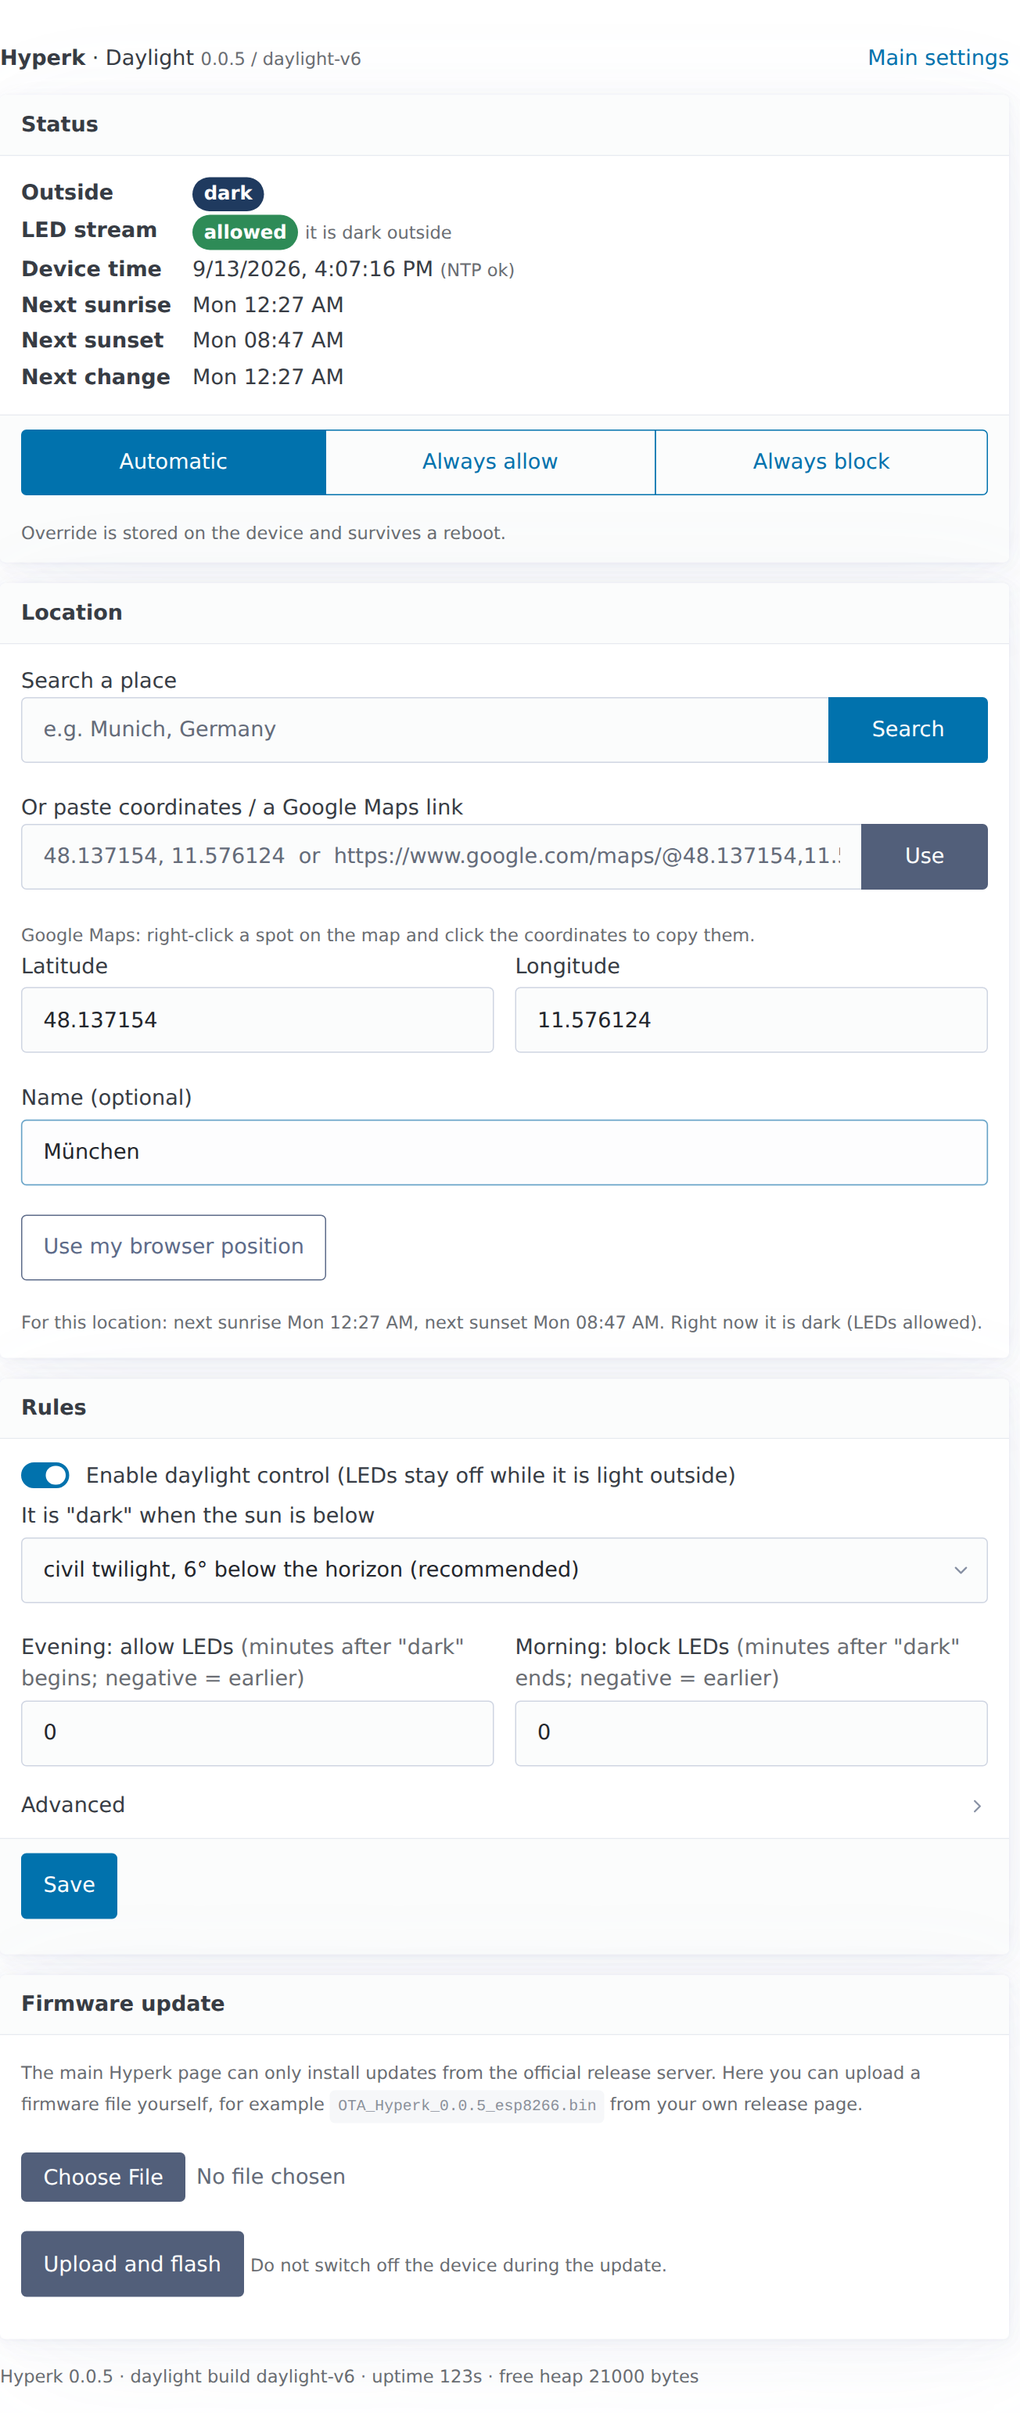
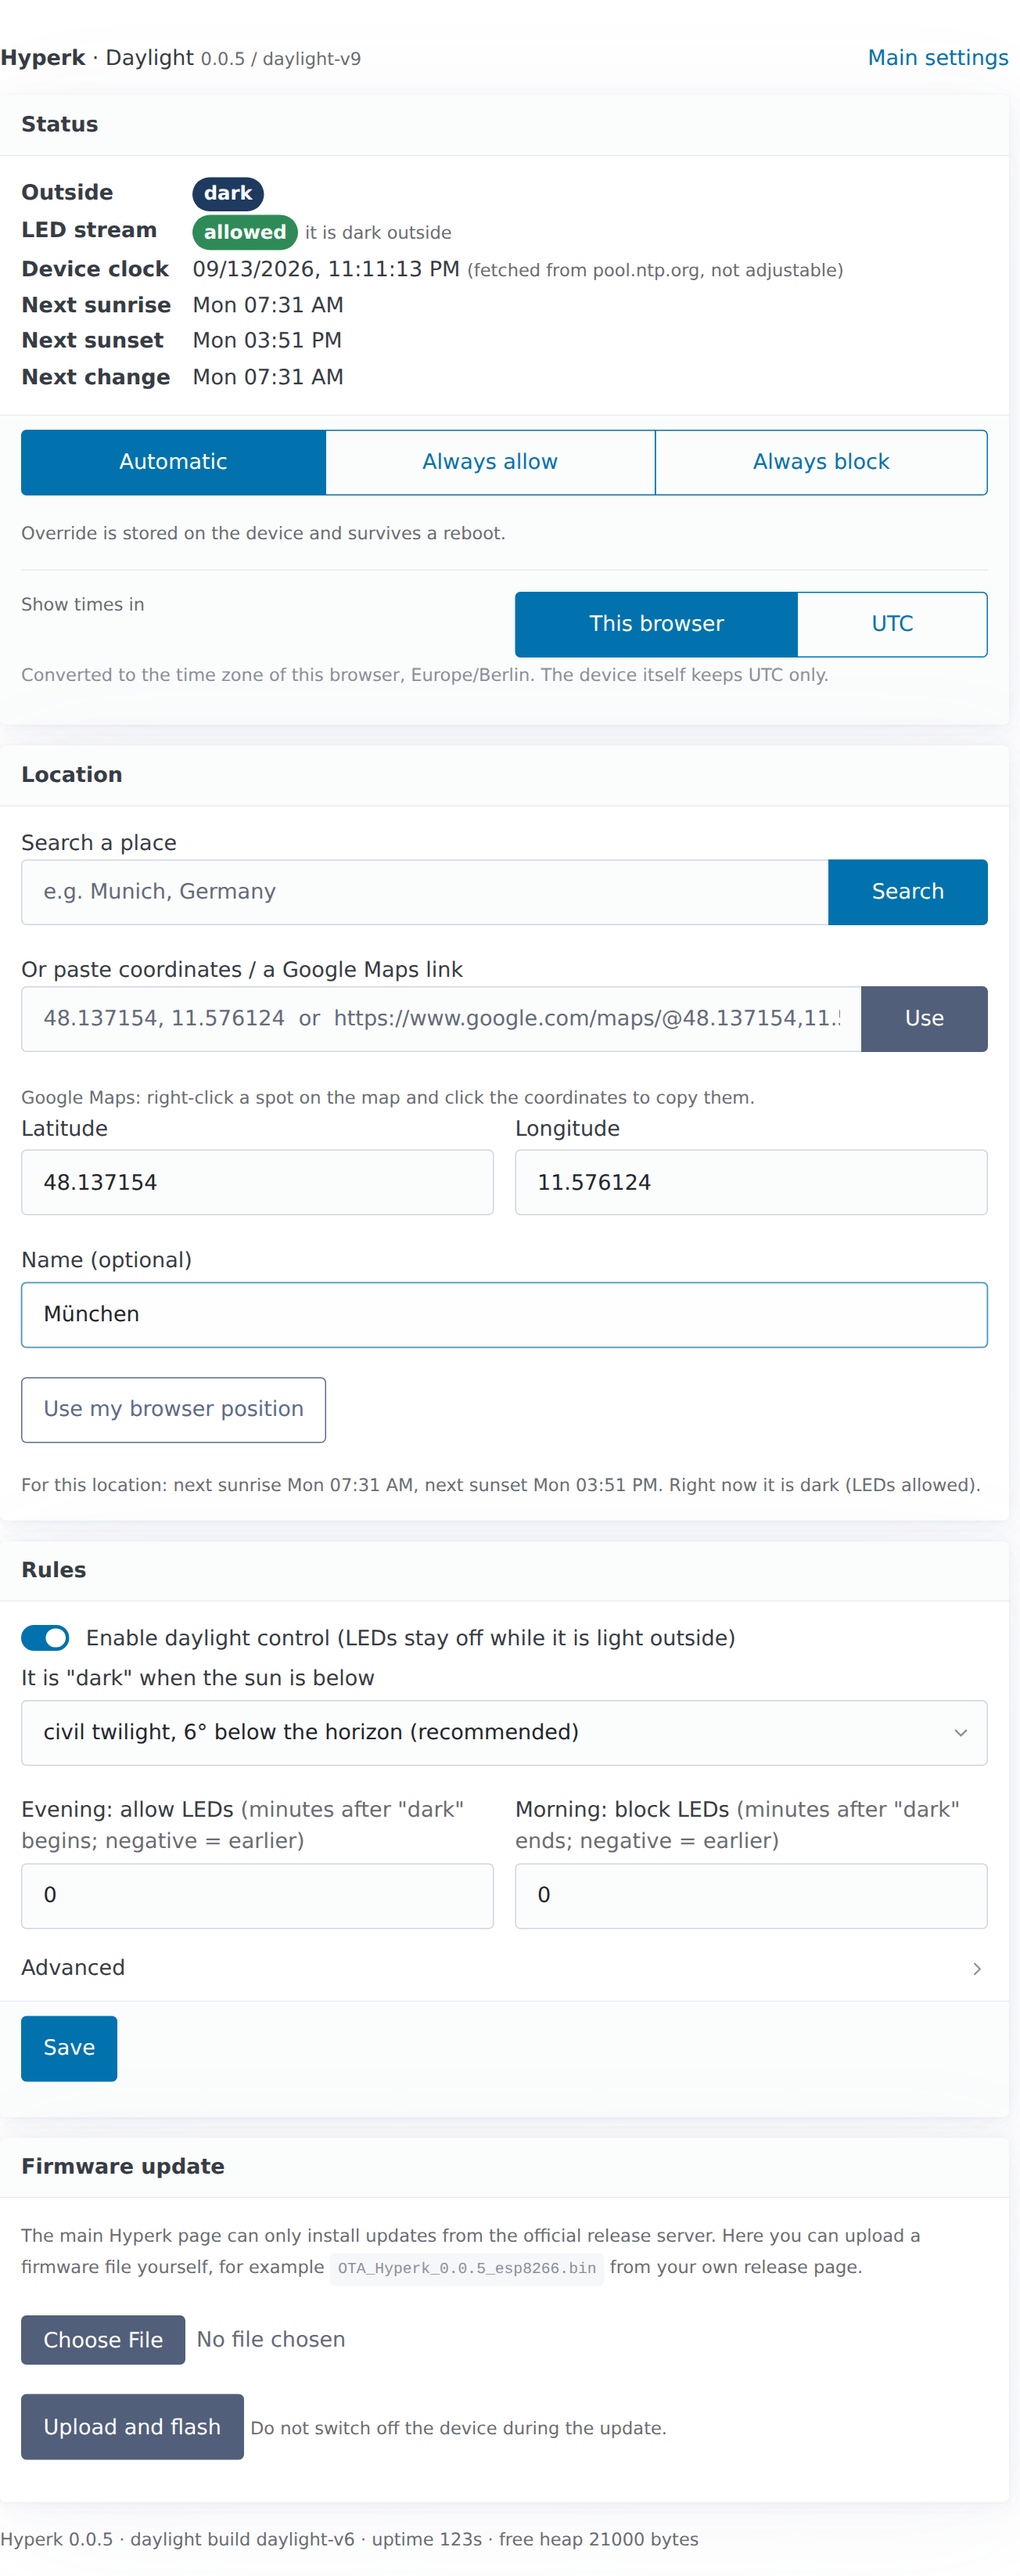
Say where the clock comes from and which time zone is on screen
The status line called a value "Device time" and printed it in the time
zone of whoever opened the page, which made the clock look like a fixed
setting that had to match the chosen location. It is neither.

The line is now "Device clock" and names the time server it came from, plus
a note that it cannot be adjusted. A switch renders every time either in the
browser's time zone or in UTC, and says which one is showing. The choice is
remembered per browser. The readme explains that the device keeps UTC only
and therefore works anywhere without knowing a time zone.

Claude-Session: https://claude.ai/code/session_01XptJV4HZ7RaU9kmjqBA5r9

diff --git a/include/daylight_page.h b/include/daylight_page.h
@@ -49,7 +49,7 @@ main.container{max-width:48rem}
   <dl class="kv">
     <dt>Outside</dt><dd><span id="stState" class="badge b-unknown">unknown</span></dd>
     <dt>LED stream</dt><dd><span id="stGate" class="badge b-unknown">-</span> <small id="stReason" class="muted"></small></dd>
-    <dt>Device time</dt><dd><span id="stTime">-</span> <small id="stSync" class="muted"></small></dd>
+    <dt>Device clock</dt><dd><span id="stTime">-</span> <small id="stSync" class="muted"></small></dd>
     <dt>Next sunrise</dt><dd id="stRise">-</dd>
     <dt>Next sunset</dt><dd id="stSet">-</dd>
     <dt>Next change</dt><dd id="stChange">-</dd>
@@ -61,6 +61,15 @@ main.container{max-width:48rem}
       <button id="ovBlock" class="outline" onclick="setOverride('block')">Always block</button>
     </div>
     <small class="muted">Override is stored on the device and survives a reboot.</small>
+    <hr>
+    <div class="grid">
+      <small class="muted">Show times in</small>
+      <div role="group">
+        <button id="tzLocal" class="outline" onclick="setTimeZone('local')">This browser</button>
+        <button id="tzUtc" class="outline" onclick="setTimeZone('utc')">UTC</button>
+      </div>
+    </div>
+    <small id="tzNote" class="muted"></small>
   </footer>
 </article>
 
@@ -136,10 +145,42 @@ var $=function(id){return document.getElementById(id);};
 var cfg=null;
 $('homeLink').href=location.protocol+'//'+location.hostname+'/';
 
-function fmt(epoch){ if(!epoch) return '-'; return new Date(epoch*1000).toLocaleString([], {weekday:'short',hour:'2-digit',minute:'2-digit'}); }
-function fmtFull(epoch){ if(!epoch) return '-'; return new Date(epoch*1000).toLocaleString(); }
+var tzMode='local';
+try { tzMode=localStorage.getItem('hyperkDaylightTz')||'local'; } catch(e) {}
+
+function browserZone(){
+  try { return Intl.DateTimeFormat().resolvedOptions().timeZone||'this browser'; } catch(e){ return 'this browser'; }
+}
+function fmt(epoch){
+  if(!epoch) return '-';
+  var o={weekday:'short',hour:'2-digit',minute:'2-digit'};
+  if(tzMode==='utc') o.timeZone='UTC';
+  return new Date(epoch*1000).toLocaleString([],o)+(tzMode==='utc'?' UTC':'');
+}
+function fmtFull(epoch){
+  if(!epoch) return '-';
+  var o={year:'numeric',month:'2-digit',day:'2-digit',hour:'2-digit',minute:'2-digit',second:'2-digit'};
+  if(tzMode==='utc') o.timeZone='UTC';
+  return new Date(epoch*1000).toLocaleString([],o)+(tzMode==='utc'?' UTC':'');
+}
+function setTimeZone(mode){
+  tzMode=mode;
+  try { localStorage.setItem('hyperkDaylightTz',mode); } catch(e) {}
+  paintTimeZone();
+  if(lastStatus) render(lastStatus);
+}
+function paintTimeZone(){
+  $('tzLocal').className=(tzMode==='local')?'':'outline';
+  $('tzUtc').className=(tzMode==='utc')?'':'outline';
+  $('tzNote').textContent=(tzMode==='local')
+    ? 'Converted to the time zone of this browser, '+browserZone()+'. The device itself keeps UTC only.'
+    : 'Coordinated Universal Time, exactly what the device runs on.';
+}
+
+var lastStatus=null;
 
 function render(s){
+  lastStatus=s;
   var st=$('stState'); st.className='badge';
   if(s.state==='day'||s.state==='polarDay'){st.classList.add('b-day');st.textContent=(s.state==='polarDay'?'polar day':'daylight');}
   else if(s.state==='night'||s.state==='polarNight'){st.classList.add('b-night');st.textContent=(s.state==='polarNight'?'polar night':'dark');}
@@ -147,8 +188,11 @@ function render(s){
   var g=$('stGate'); g.className='badge '+(s.blocked?'b-off':'b-on'); g.textContent=s.blocked?'blocked (LEDs off)':'allowed';
   var reasons={disabled:'daylight control is disabled',override:'manual override',noLocation:'no location configured',noTime:'waiting for time sync - LEDs stay enabled',day:'it is light outside',night:'it is dark outside'};
   $('stReason').textContent=reasons[s.reason]||s.reason;
-  $('stTime').textContent=s.timeSynced?fmtFull(s.now):'not synchronized yet';
-  $('stSync').textContent=s.timeSynced?'(NTP ok)':'';
+  $('stTime').textContent=s.timeSynced?fmtFull(s.now):'not set yet';
+  var ntp=(s.config&&s.config.ntp)?s.config.ntp:'the time server';
+  $('stSync').textContent=s.timeSynced
+    ? '(fetched from '+ntp+', not adjustable)'
+    : '(waiting for '+ntp+')';
   $('stRise').textContent=fmt(s.sunrise); $('stSet').textContent=fmt(s.sunset); $('stChange').textContent=fmt(s.nextChange);
   ['Auto','Allow','Block'].forEach(function(n){var b=$('ov'+n); var active=(s.config.override===n.toLowerCase()); b.className=active?'':'outline';});
   $('fwInfo').textContent='Hyperk '+s.fw+' · daylight build '+s.build+' · uptime '+s.uptime+'s · free heap '+s.freeHeap+' bytes';
@@ -309,6 +353,7 @@ function uploadFirmware(){
   x.send(fd);
 }
 
+paintTimeZone();
 refresh(true);
 setInterval(function(){refresh(false);},10000);
 </script>

diff --git a/readme.md b/readme.md
@@ -19,6 +19,8 @@ This fork teaches Hyperk one rule: **the LED strip only follows the TV when it i
 
 The device fetches the time over NTP and calculates sunrise and sunset for the coordinates you configure. At night the HyperHDR stream passes through untouched. During the day it is discarded, the firmware sees no signal and switches the LEDs off after the usual stream timeout.
 
+**The clock comes from the network, not from a setting.** The device asks a time server, `pool.ntp.org` by default, and keeps nothing but UTC. It never learns a time zone and never needs one: sunrise and sunset are computed in UTC from your coordinates and compared against UTC. That is why the same firmware works anywhere on earth without being told where "here" is. The settings page converts the times for reading, and the switch in the status card decides whether that is your browser's time zone or plain UTC.
+
 It is a filter, not a light switch. The LEDs light up because HyperHDR sends a picture, so the TV has to be running. With the TV on, the strip comes to life within about five seconds of nightfall and goes dark again a few seconds after sunrise. With the TV off nothing happens either way. Nothing is sent to any server: the sun position is computed on the device from your coordinates and the clock.
 
 ### Settings page
@@ -27,7 +29,7 @@ Open `http://hyperk.local:8080/`, or `http://<device-ip>:8080/`. It uses the sam
 
 | Card | What you do there |
 | :--- | :--- |
-| Status | See whether it is dark, whether the stream is allowed, and the next sunrise and sunset in your local time. Three buttons force the gate open or shut for testing. |
+| Status | See whether it is dark, whether the stream is allowed, and the next sunrise and sunset. Three buttons force the gate open or shut for testing, and a switch shows all times either in the time zone of your browser or in UTC. |
 | Location | Search a place by name, paste coordinates copied from Google Maps such as `48.137154, 11.576124`, paste a whole Maps link, or type latitude and longitude. A preview shows the resulting sun times before you save. |
 | Rules | Switch the whole feature on, pick when it counts as dark, and shift both edges by minutes. |
 | Firmware update | Pick a `.bin` file and flash it. The stock interface on port 80 cannot do this, it only installs releases from the upstream project. |
